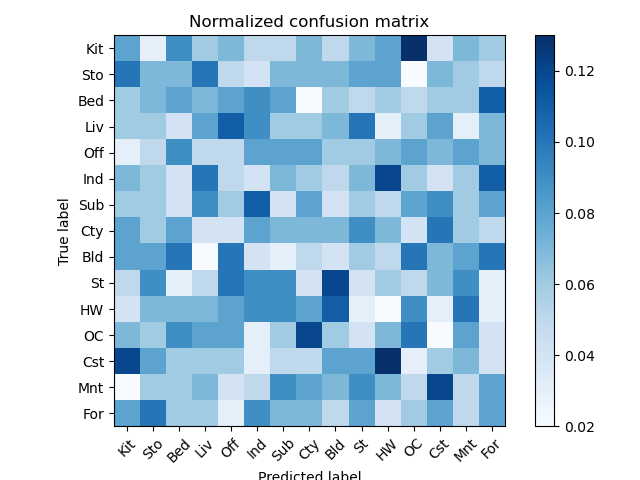
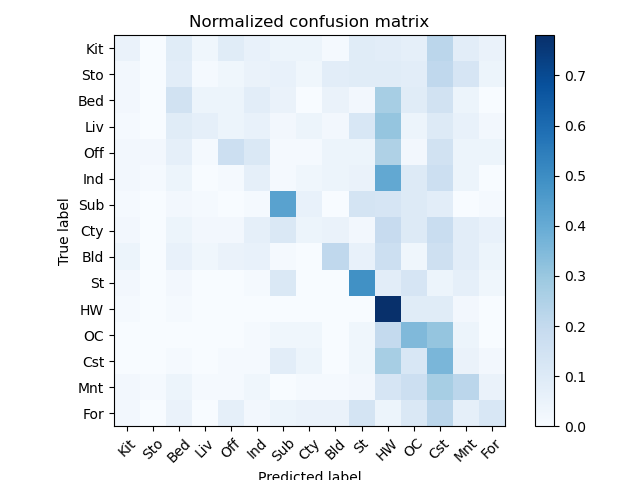
kNN

diff --git a/part1/nearest_neighbor_classify.py b/part1/nearest_neighbor_classify.py
@@ -4,6 +4,15 @@ import numpy as np
 import scipy.spatial.distance as distance
 from scipy.stats import mode
 
+def find_max_occurence(K_list):
+    occur_dict = {}
+    for elem in K_list:
+        if elem in occur_dict:
+            occur_dict[elem] = occur_dict[elem]+1
+        else:
+            occur_dict[elem] = 1
+    return max(occur_dict, key=(lambda key: occur_dict[key]))
+    
 def nearest_neighbor_classify(train_image_feats, train_labels, test_image_feats):
     ###########################################################################
     # TODO:                                                                   #
@@ -36,6 +45,19 @@ def nearest_neighbor_classify(train_image_feats, train_labels, test_image_feats)
             a list(M) of string, each string indicate the predict
             category for each testing image.
     '''
+    K = 11 #for tiny_image feature K=11 or 7
+    train_test_dist = distance.cdist(train_image_feats, test_image_feats,'minkowski', p=1) #(N,M)
+    distance_index = np.argsort(np.argsort(train_test_dist,axis=0),axis=0)
+    test_predicts = []
+    for test_i in range(test_image_feats.shape[0]): #0~M
+        #test_predicts.append(random.choice(train_labels))
+        col_index = distance_index[:,test_i].tolist()
+        cls_idx_zip = zip(train_labels,col_index)
+        sorted_cls_list = sorted(cls_idx_zip, key=lambda x:x[1])
+        sorted_cls_list,_ = zip(*sorted_cls_list)
+        sorted_cls_list = list(sorted_cls_list)
+        sorted_cls_list = sorted_cls_list[:K]
+        test_predicts.append(find_max_occurence(sorted_cls_list))
 
     #############################################################################
     #                                END OF YOUR CODE                           #

diff --git a/part1/my_test.py b/part1/my_test.py
@@ -7,7 +7,7 @@ output_matrix = np.array(img)
 output_matrix = np.reshape(output_matrix,(-1,400))
 print(output_matrix.shape)
 
-test_a = [[1,2,9],[10,11,12],[99,100,101]]
+test_a = [[9,2,1],[11,10,12],[99,100,101]]
 test_a = np.array(test_a)
 print(test_a)
 
@@ -22,3 +22,26 @@ sqrt_sum_of_rows = np.sqrt(np.square(test_a).sum(axis=1))
 print(sqrt_sum_of_rows)
 test_a = test_a/sqrt_sum_of_rows[:,np.newaxis]
 print(test_a)
+
+print("-----------------------")
+index_a = np.argsort(test_a, axis=0)
+print(index_a)
+
+cls_list = ['a','b','c']
+
+for col_i in range(index_a.shape[1]):
+    col_1_index = index_a[:,col_i].tolist()
+    #print(col_1_index)
+    cls_idx_zip = zip(cls_list,col_1_index)
+    #print(cls_idx_zip)
+    sorted_cls_list = sorted(cls_idx_zip, key=lambda x:x[1])
+    sorted_cls_list,_ = zip(*sorted_cls_list)
+    sorted_cls_list = list(sorted_cls_list)
+    print(sorted_cls_list)
+
+print("-----------------------")
+test_dic = {}
+test_dic['c'] = 1
+test_dic['a'] = 2
+test_dic['b'] = 3
+print(max(test_dic, key=(lambda key: test_dic[key])))

diff --git a/part1/my_KNN_test.py b/part1/my_KNN_test.py
@@ -1,0 +1,20 @@
+import numpy as np
+from nearest_neighbor_classify import nearest_neighbor_classify
+
+train_feat = [[1,1],[2,1],[1,2],[2,2],
+              [1,3],[2,3],[1,4],[2,4],
+              [3,1],[4,1],[3,2],[4,2],
+              [3,3],[4,3],[3,4],[4,4]]
+train_feat = np.array(train_feat)
+print(train_feat)
+train_labe = ['circ','circ','circ','circ',
+              'chec','chec','chec','chec',
+              'tria','tria','tria','tria',
+              'cros','cros','cros','cros']
+
+test_feat = [[1.5,1.5],[3.5,1.5],[1.5,3.5],[3.5,3.5]]
+test_feat = np.array(test_feat)
+print(test_feat)
+
+res = nearest_neighbor_classify(train_feat, train_labe, test_feat)
+print(res)

diff --git a/part1/p1.py b/part1/p1.py
@@ -62,10 +62,10 @@ def main():
     print("Getting paths and labels for all train and test data")
     train_image_paths, test_image_paths, train_labels, test_labels = \
         get_image_paths(DATA_PATH, CATEGORIES, NUM_TRAIN_PER_CAT)
-    print(len(train_image_paths))
-    print(len(train_labels))
-    print(train_image_paths[0])
-    print(train_labels[0])
+    #print(len(train_image_paths))
+    #print(len(train_labels))
+    #print(train_image_paths[0])
+    #print(train_labels[0])
     # TODO Step 1:
     # Represent each image with the appropriate feature
     # Each function to construct features should return an N x d matrix, where
